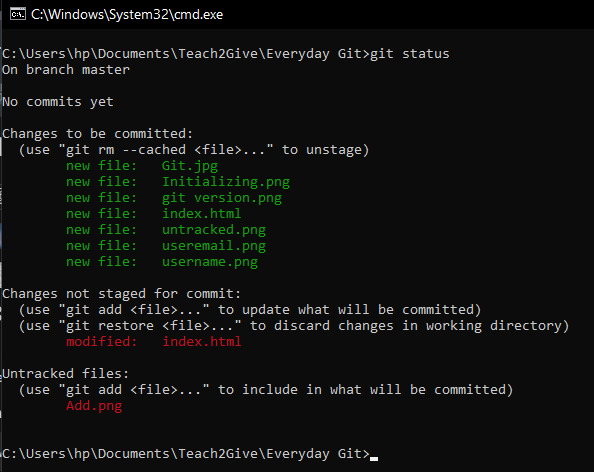
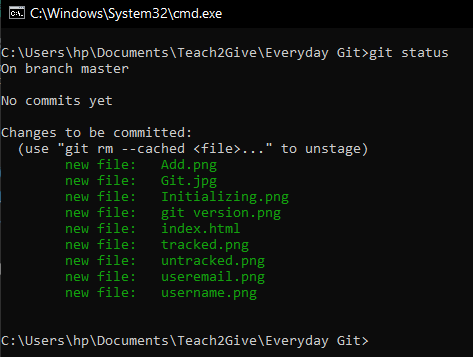
Set up Everyday Git HTML blog structure

diff --git a/index.html b/index.html
@@ -13,36 +13,35 @@
 
     <!-- Step 1 -->
     <h2>1. Get Started</h2>
-    <p>Set up your development environment and create all the necessary files and folders.</p>
-    <p>To start writing HTML, all you need is a code editor (Visual Studio- Recommended) and a web browser (Microsoft Edge or Google Chrome).</p>
+    <p><>Set up your development environment and create all the necessary files and folders.</p>
+    <p><>To start writing HTML, all you need is a code editor (Visual Studio- Recommended) and a web browser (Microsoft Edge or Google Chrome).</p>
 
     <!-- Step 2 -->
     <h2>2. What is Git?</h2>
-    <p>Git is a <i><strong>Version Control System (VCS).</strong></i></p>
-    <p>A version control system is a software that tracks and manages changes to files over time.</p>
-    <p>Version Control Systems allow users to revisit earlier versions of their files, compare changes between versions, undo changes and a lot more.</p>
-    <p>Other version control software include: Subversion, CVS, Mercurial.</p>
-    <p>They all have a common goal but vary significantly in how they achieve these goals.</p>
-    <p><strong><em>In this blog we will be going through Git and GitHub.</em></strong></p>
+    <p><>Git is a <i><strong>Version Control System (VCS).</strong></i></p>
+    <p><>A version control system is a software that tracks and manages changes to files over time.</p>
+    <p><>Version Control Systems allow users to revisit earlier versions of their files, compare changes between versions, undo changes and a lot more.</p>
+    <p><>Other version control software include: Subversion, CVS, Mercurial.</p>
+    <p><>They all have a common goal but vary significantly in how they achieve these goals.</p>
+    <p><><strong><em>In this blog we will be going through Git and GitHub.</em></strong></p>
 
     <h3><i><u>What is GitHub</u></i></h3>
-    <p>GitHub is a web-based platform that provides version control and collaboration tools for software development.</p>
-    <p>It allows developers to host, review, and manage code, track changes, and collaborate with others on projects.</p>
-    <p>GitHub is built around Git, making it easier for teams to work together and maintain a history of their codebase.</p>
+    <p><>GitHub is a web-based platform that provides version control and collaboration tools for software development.</p>
+    <p><>It allows developers to host, review, and manage code, track changes, and collaborate with others on projects.</p>
+    <p><>GitHub is built around Git, making it easier for teams to work together and maintain a history of their codebase.</p>
 
     <!-- Step 3 -->
      <h2>3. Installing Git</h2>
-     <p>To use Git, we need to first download and install it.</p>
-     <p>To download Git, <a href="https://git-scm.com/downloads">Visit Git</a> and download the version for your platform whether it is macOS or Windows or Linux.</p>
-     <p>Run the downloaded installer, leave all the default options during installation.</p>
-     <p><strong>To confirm whether Git was installed successfully:</strong></p>
-     <p>
+     <p><>To use Git, we need to first download and install it.</p>
+     <p><>To download Git, <a href="https://git-scm.com/downloads">Visit Git</a> and download the version for your platform whether it is macOS or Windows or Linux.</p>
+     <p><>Run the downloaded installer, leave all the default options during installation.</p>
+     <p><><strong>To confirm whether Git was installed successfully:</strong>
         <ul>
             <li>Open command prompt in windows or terminal in mac/linux.</li>
             <li>Run the command: <mark>git --version</mark></li>
             <li>If a version number is returned, Git is installed on your system. If you receive any other output, Git is not installed.</li>
         </ul>
-     </p>
+    </p>
      
      <figure>        
             <img src="./git version.png" alt="git version image">
@@ -51,24 +50,22 @@
 
     <!-- Step 4 -->
      <h2>4. Configuring Git</h2>
-     <p>Now that Git is installed, it's time to configure basic information.</p>
-     <p>We don't need to 'register an account' to use Git, however, we need to tell Git who we are. By providing our username and email address.</p>
+     <p><>Now that Git is installed, it's time to configure basic information.</p>
+     <p><>We don't need to 'register an account' to use Git, however, we need to tell Git who we are. By providing our username and email address.</p>
 
-     <p><Strong>Configuring your username</Strong></p>
-     <p>
+     <p><Strong>Configuring your username:</Strong>
         <ul>
             <li>Open command prompt or terminal depending on your platform.</li>
             <li>Run the command: <mark>git config --global user.name "USERNAME"</mark></p>[Replace USERNAME with your preferred username, for example, if your username is JaninWanjiru- you'll write: <em><strong>git config --global user.name "JaninWanjiru"</em></strong>]</li>
         </ul>
-     </p>
+    </p>
      
      <figure>
         <img src="./username.png" alt="Username Configuring">
         <figcaption>Configuring Username and Verifying the Configuration</figcaption>
      </figure>
 
-     <p><Strong>Configuring your email address</Strong></p>
-    <p>
+     <p><Strong>Configuring your email address:</Strong>
         <ul>
             <li>Open command prompt or terminal depending on your platform.</li>
             <li>Run the command: <mark>git config --global user.email "EMAIL_ADDRESS"</mark></p> [Replace EMAIL_ADDRESS with your email address, for example, if your email address is janinndongo02@gmail.com- you'll write: <em><strong>git config --global user.email "janinndongo02@gmail.com"</strong></em>]</li>
@@ -83,16 +80,15 @@
     <!-- Step 5 -->
      <h2>5. Intializing a Git repository</h2>
      <h3><i><u>What is a Git Repository</u></i></h3>
-     <p>A git repo is a workspace which tracks and manages files within a folder.</p>
-     <p>Anytime we want to use Git with a project, app, et.c, we need to create a new git repository.</p>
-     <p>We can have as many repos as we want on our machine all with separate history and content, however, it is important to note that a project should have a single Git repository.</p>
-     <p><strong>To initialize a git repository:</strong></p>
-     <p>
+     <p><>A git repo is a workspace which tracks and manages files within a folder.</p>
+     <p><>Anytime we want to use Git with a project, app, et.c, we need to create a new git repository.</p>
+     <p><>We can have as many repos as we want on our machine all with separate history and content, however, it is important to note that a project should have a single Git repository.</p>
+     <p><strong>To initialize a git repository:</strong>
         <ul>
             <li>Open the terminal or command prompt in your project directory, you can also open your command line tool and navigate to your project directory.</li>
             <li>Run the command: <mark>git init</mark></li>
         </ul>
-     </p>
+    </p>
     
      <p><b>NOTE:</b> Initializing a git repository is something you do once per project. Running the command <i><strong>git init</strong></i> in a project that contains a git repository will make git initialize a repository within a repository.</p>
      <p><b>Tip:</b> use <i><strong>git status</strong></i> to confirm whether your project has a git repository or not.</p>
@@ -105,53 +101,71 @@
 
      <!-- Step 6 -->
       <h2>6. Adding files to the staging area</h2>
-      <p>In Git, the <i><strong>staging area</strong></i> also known as the <i>index</i> is an intermediate space where you can organize changes before committing them to the repository.</p>
-      <p>When you make changes to files in your working directory, you need to add these changes to the staging area using the <i><strong>git add</strong></i> command.</p>
-      <p>
+      <p><>In Git, the <i><strong>staging area</strong></i> also known as the <i>index</i> is an intermediate space where you can organize changes before committing them to the repository.</p>
+      <p><>When you make changes to files in your working directory, you need to add these changes to the staging area using the <i><strong>git add</strong></i> command.
         <ul>
             <li>To add changes, run the command <mark>git add .</mark> to add all the files in one go.</li>
             <li>Or the command <i><b>git add FILE_NAME</b></i> to add a single file.</li>
         </ul>
-      </p>
+     </p>
+      
       <figure>
         <img src="./Add.png" alt="Adding Files">
         <figcaption>Using <b><i>git add .</i></b> command to add all files to the staging area.</figcaption>
       </figure>
 
       <h3><i><u>Tracked vs Untracked Files</u></i></h3>
-      <p>When you use Git, your files fall into two main categories: tracked and untracked. Understanding the difference helps you know what Git is actually monitoring.</p>
+      <p><>When you use Git, your files fall into two main categories: tracked and untracked. Understanding the difference helps you know what Git is actually monitoring.</p>
       <p><b>Untracked Files</b></p>
-      <p>These are files that Git sees in your working directory but hasn't been told to track yet. They:</p>
-      <p>
+      <p><>These are files that Git sees in your working directory but hasn't been told to track yet. They:
         <ul>
             <li>Haven't been added using git add</li>
             <li>Won't be included in commits until you explicitly track them.</li>
         </ul>
       </p>
+      
       <figure>
-        <img src="./untracked.png" alt="Untracked files" height="170px">
-        <figcaption>Using <i>git status</i> to view Untracked Files.</figcaption>
+        <img src="./untracked.png" alt="Untracked files" height="160px">
+        <figcaption>Using <i>git status</i> to view Untracked files.</figcaption>
       </figure>
       <p><b>Tracked Files</b></p>
-      <p>These are files that Git already knows about. They were either:</p>
-      <p>
+      <p><>These are files that Git already knows about. They were either:
         <ul>
             <li>part of the initial commit</li>
             <li>staged using git add</li>
             <li>or committed before.</li>
         </ul>
       </p>
-      <p>Tracked files can be in one of three states:</p>
-      <p>
+      
+      <p>Tracked files can be in one of three states:
         <ul>
             <li><b>Unmodified:</b> Nothing has changed since the last commit.</li>
             <li><b>Modified:</b> The file has been changed but not yet staged.</li>
             <li><b>Staged:</b> The file is marked to be included in the next commit.</li>
         </ul>
       </p>
+      
       <figure>
-
+        <img src="./tracked.png" alt="Tracked files" height="160px">
+        <figcaption>Using <i>git status</i> to view Tracked files.</figcaption>
       </figure>
+
+      <!-- Step 7 -->
+       <h2>7. Commiting changes</h2>
+       <p><>A commit in git is a checkpoint in time, it is a snapshot of changes in your repository.</p>
+       <p><>The commit process involves recording snapshots of your project at various stages, allowing you to track progress, revert changes and collaborate with others efficiently.</p>
+       <p><>Committing will only work if there are changes in the staging area.</p>
+       <p>Key components of a commit:
+        <ul>
+            <li><b>A hash:</b> a unique identifier for each commit.</li>
+            <li><b>Commit message:</b> a descriptive message that explains the purpose of the commit.</li>
+            <li><b>Author:</b> the person who made the commit.</li>
+            <li><b>Timestamp:</b> the date and time when the commit was made.</li>
+        </ul>
+       </p>
+       <p><>To commit, we use the <i><strong>git commit</strong></i> command.</p>
+       <p><>There is a <mark>-m</mark> flag that allows us to pass a commit message directly without having to open a text editor.</p>
+       <p><><mark>git commit -m "MESSAGE"</mark>, Replace MESSAGE with a short descriptive commit message of your choosing.</p>
 
 </body>
 </html>
